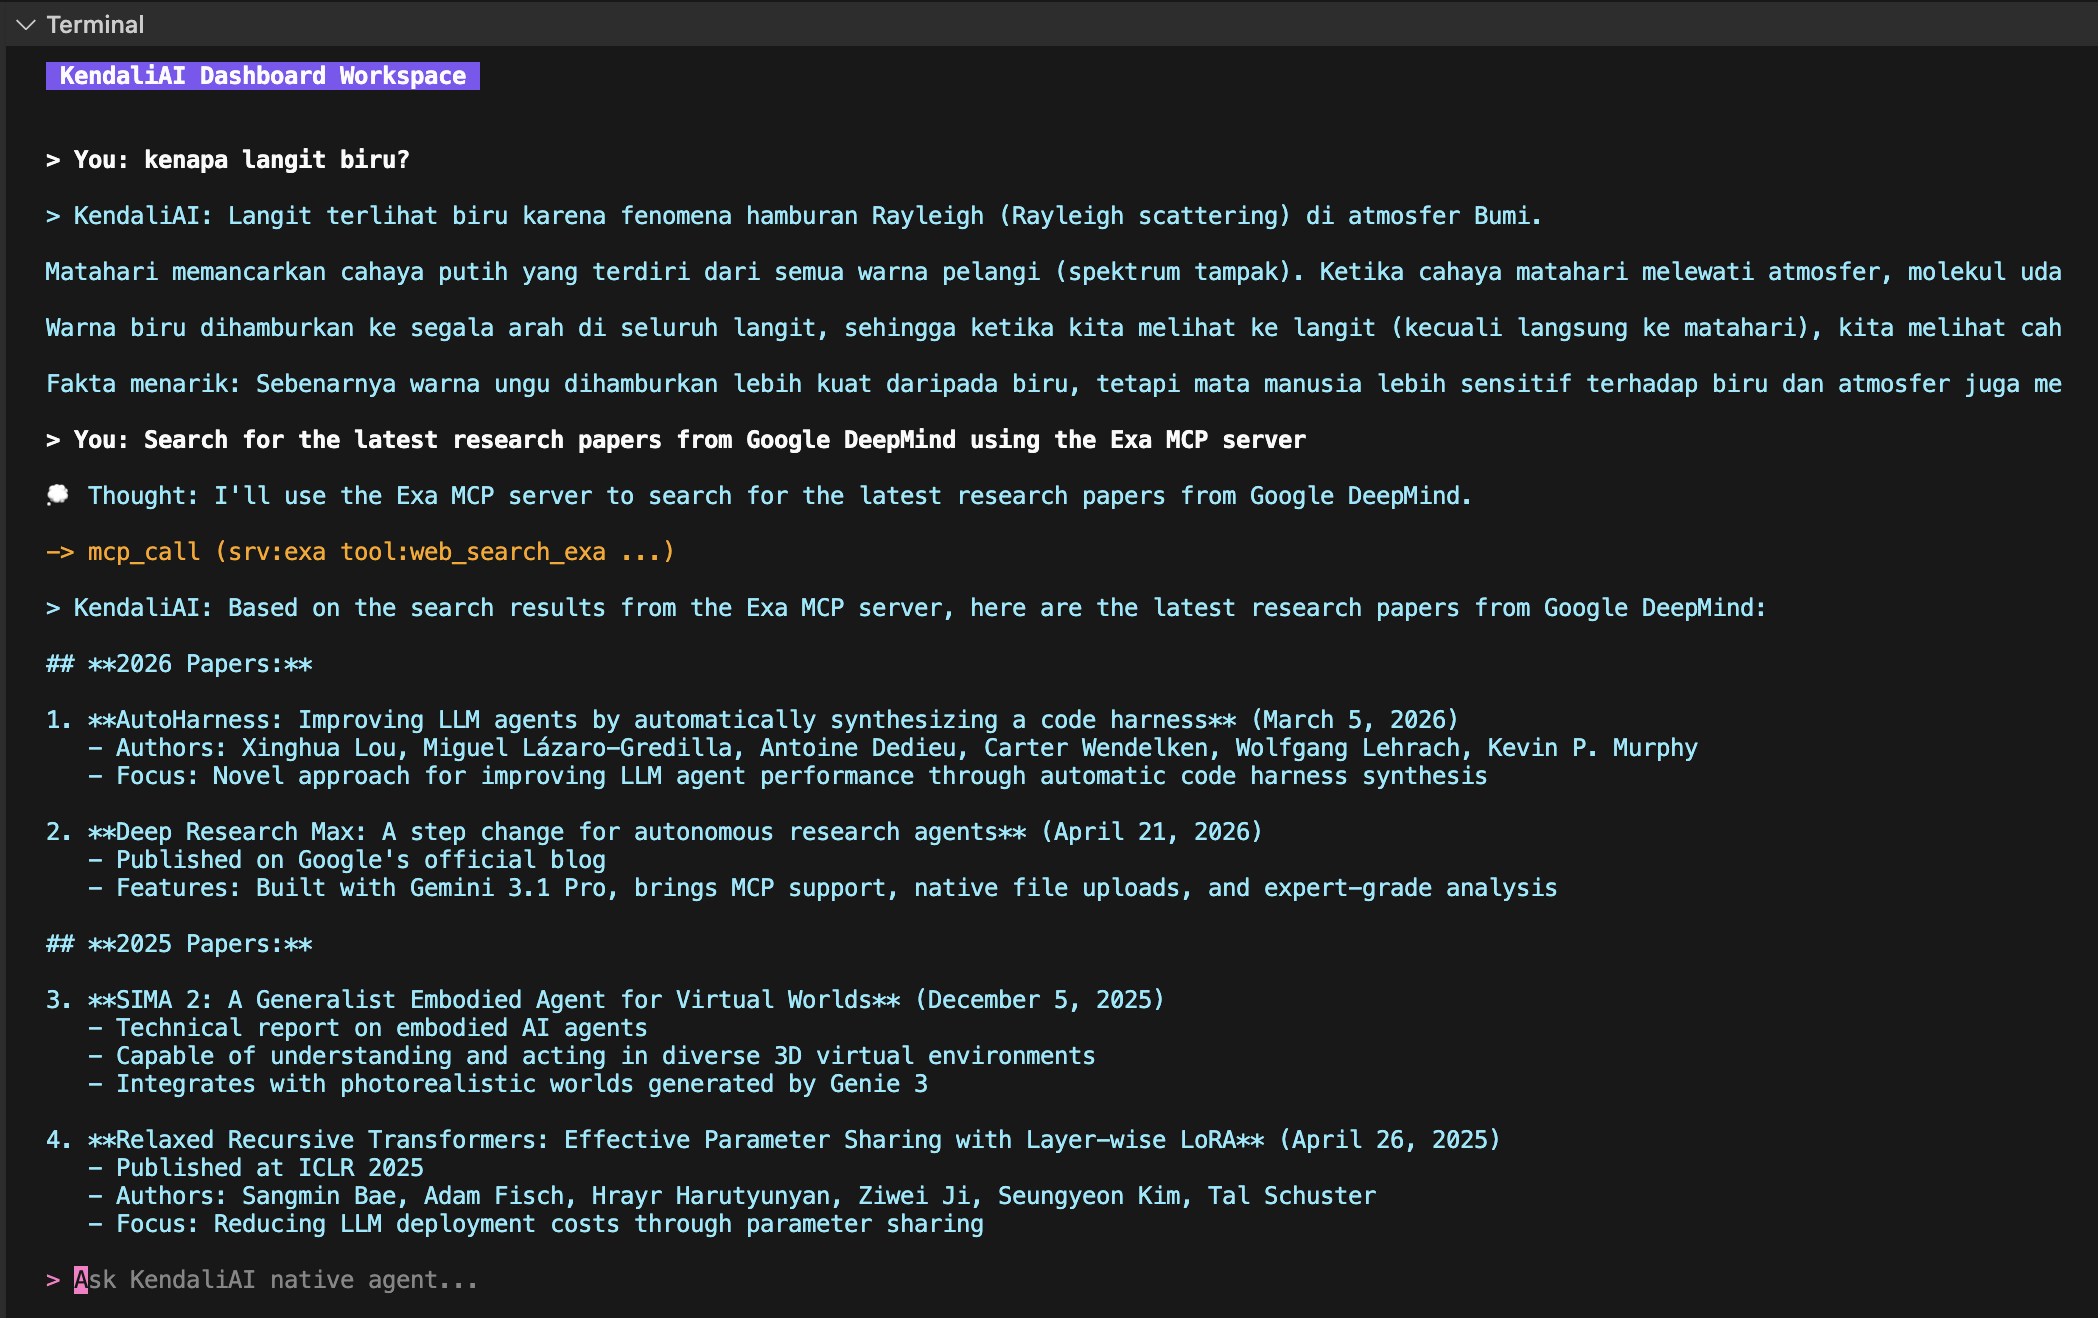
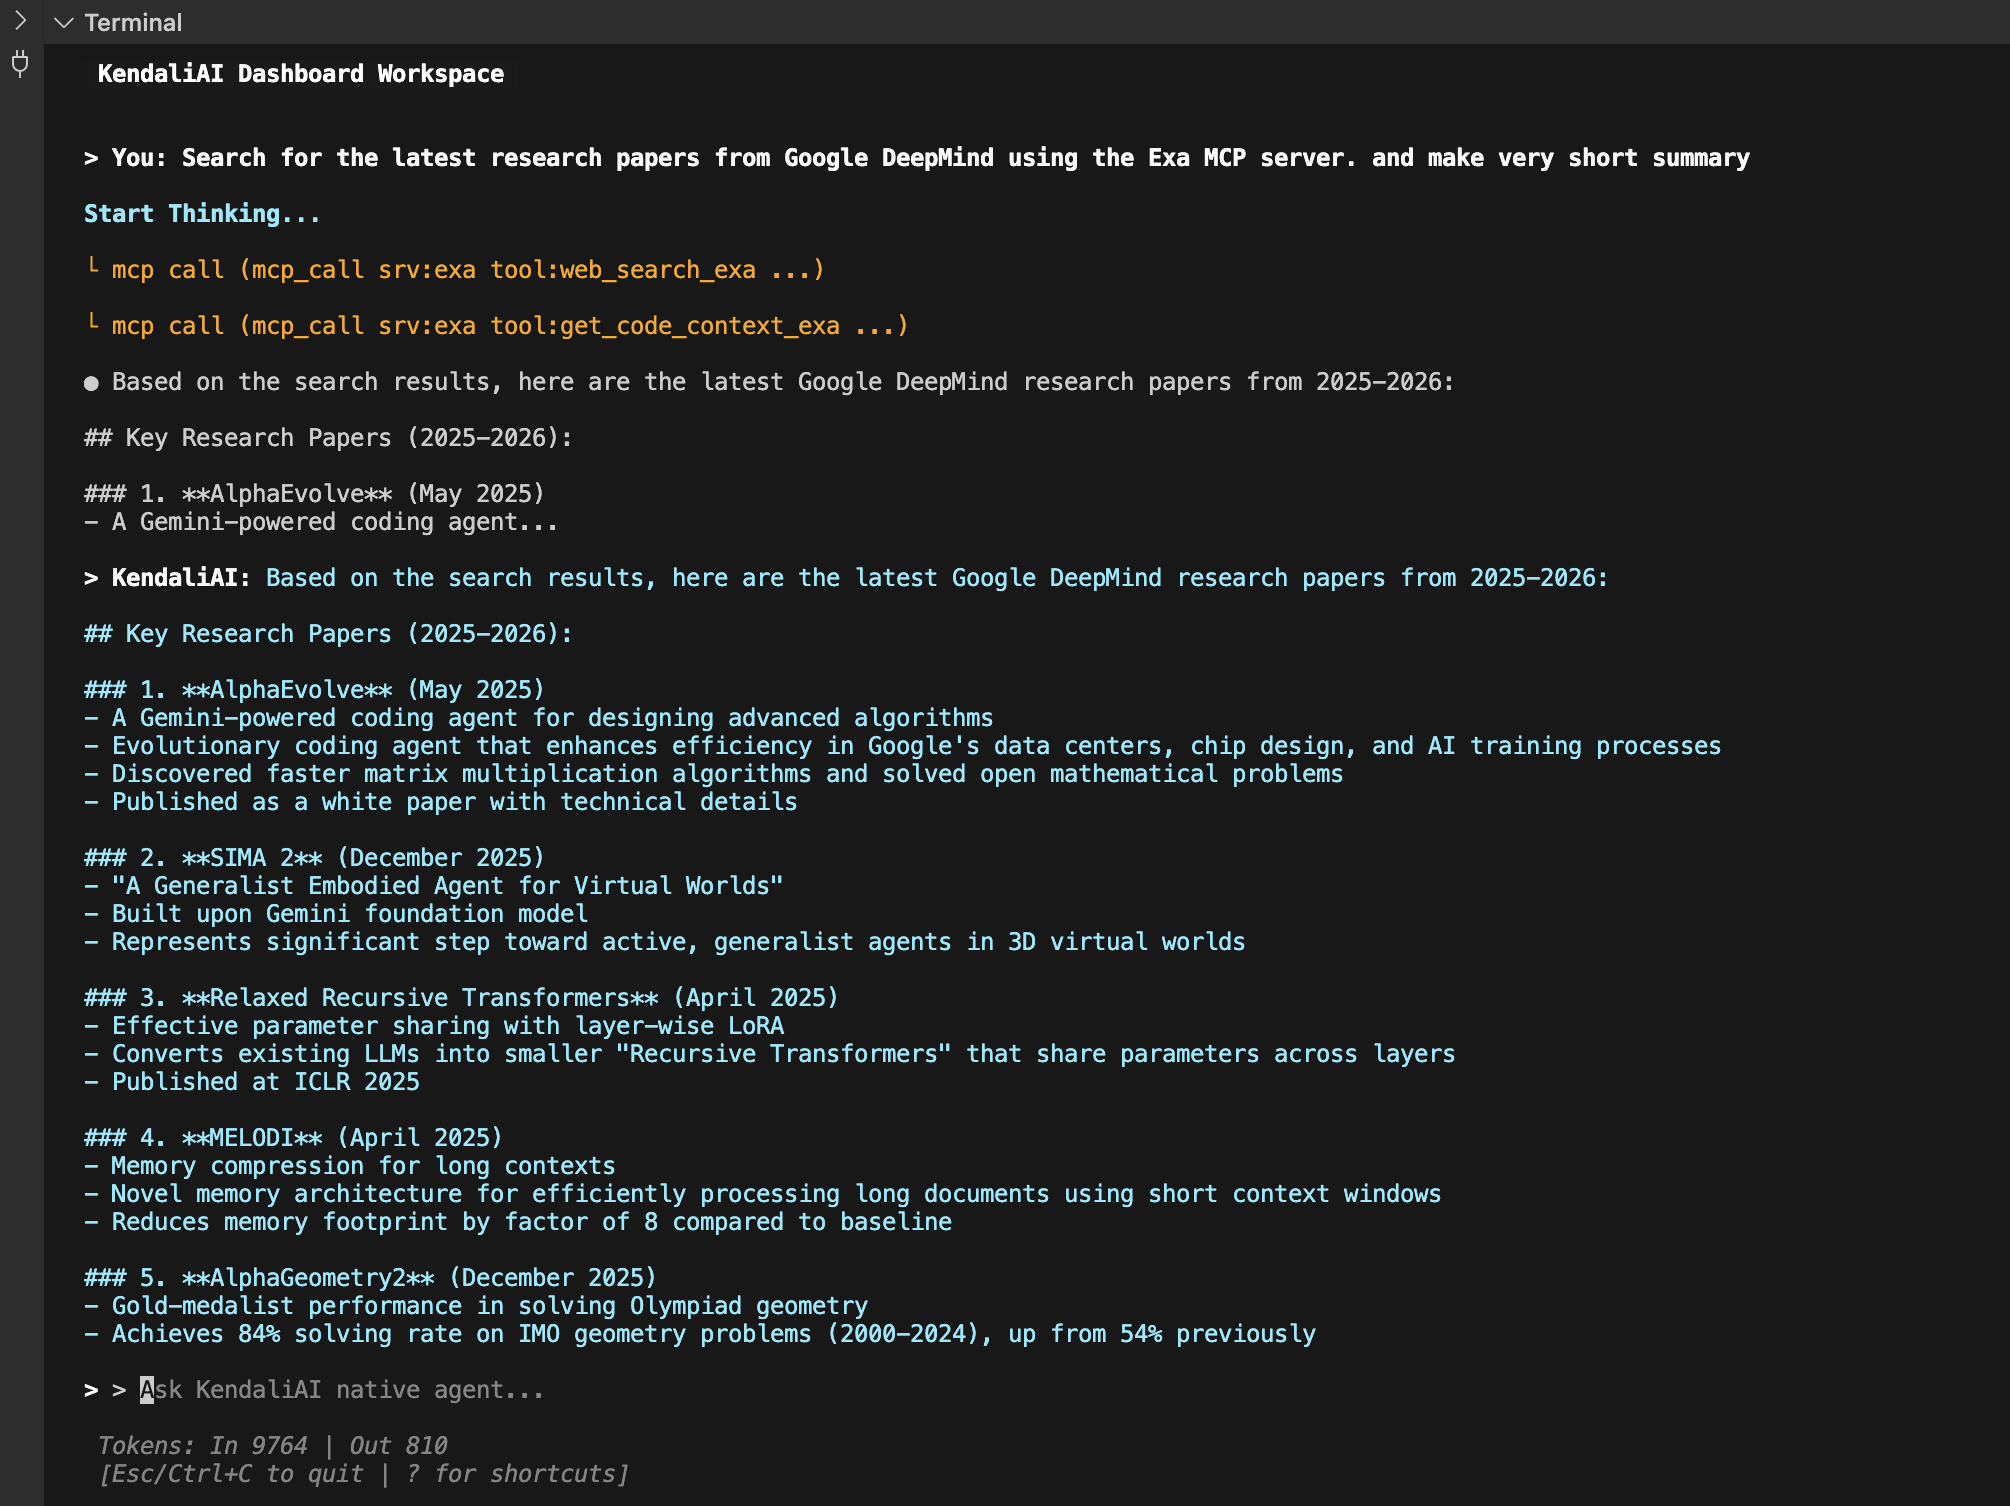
feat: implement token usage tracking and enhance TUI with processing status and dashboard styling

Changed region(s): [[0.0, 0.0, 0.9871, 0.9954]]

diff --git a/internal/tui/app.go b/internal/tui/app.go
@@ -17,22 +17,29 @@ import (
 )
 
 var (
-	titleStyle = lipgloss.NewStyle().Bold(true).Foreground(lipgloss.Color("#FAFAFA")).Background(lipgloss.Color("#7D56F4")).Padding(0, 1).MarginBottom(1)
-	inputStyle = lipgloss.NewStyle().Foreground(lipgloss.Color("#FF79C6"))
+	titleStyle = lipgloss.NewStyle().Bold(true).Foreground(lipgloss.Color("#FFFFFF")).Background(lipgloss.Color("#1A1A1A")).Padding(0, 1).MarginBottom(1)
+	inputStyle = lipgloss.NewStyle().Foreground(lipgloss.Color("#00FF00"))
 
-	userStyle  = lipgloss.NewStyle().Foreground(lipgloss.Color("#FAFAFA")).Bold(true) // White
-	toolStyle  = lipgloss.NewStyle().Foreground(lipgloss.Color("#FFA500"))             // Orange
-	agentStyle = lipgloss.NewStyle().Foreground(lipgloss.Color("#8BE9FD"))             // Cyan/Blue
-	errorStyle = lipgloss.NewStyle().Foreground(lipgloss.Color("#FF5555"))             // Red
+	userStyle       = lipgloss.NewStyle().Foreground(lipgloss.Color("#FAFAFA")).Bold(true)
+	thoughtStyle    = lipgloss.NewStyle().Foreground(lipgloss.Color("#CCCCCC"))
+	toolNameStyle   = lipgloss.NewStyle().Foreground(lipgloss.Color("#FFA500")).Bold(true)
+	toolDetailStyle = lipgloss.NewStyle().Foreground(lipgloss.Color("#FFA500"))
+	agentStyle      = lipgloss.NewStyle().Foreground(lipgloss.Color("#8BE9FD"))
+	errorStyle      = lipgloss.NewStyle().Foreground(lipgloss.Color("#FF5555"))
+	footerStyle     = lipgloss.NewStyle().Foreground(lipgloss.Color("#555555")).Italic(true)
+	processingStyle = lipgloss.NewStyle().Foreground(lipgloss.Color("#8BE9FD")).Bold(true)
 )
 
 type model struct {
-	db       *sql.DB
-	cfg      *config.Config
-	ti       textinput.Model
-	vp       viewport.Model
-	logs     []string
-	quitting bool
+	db           *sql.DB
+	cfg          *config.Config
+	ti           textinput.Model
+	vp           viewport.Model
+	logs         []string
+	quitting     bool
+	totalInput   int
+	totalOutput  int
+	isProcessing bool
 }
 
 func initialModel(db *sql.DB, cfg *config.Config) model {
@@ -62,6 +69,8 @@ type agentStepMsg string
 type responseMsg string
 type thoughtMsg string
 type errMsg error
+type statsMsg struct{ In, Out int }
+type progressMsg bool
 
 func runAgentTask(cmd string, p *tea.Program, m model) tea.Cmd {
 	return func() tea.Msg {
@@ -77,7 +86,21 @@ func runAgentTask(cmd string, p *tea.Program, m model) tea.Cmd {
 		loop := agent.NewCognitionLoop(pr, 25, m.cfg)
 		loop.OnTool = func(n string, args map[string]interface{}) {
 			if p != nil {
+				label := "Ran"
 				argStr := ""
+				
+				// Categorize tools based on the AntiGravity pattern
+				switch n {
+				case "list_files", "read_file", "search_files", "fetch_url":
+					label = "Explore"
+				case "apply_patch", "replace_range", "edit_file":
+					label = "Edited"
+				case "mcp_call":
+					label = "mcp call"
+				default:
+					label = "Ran"
+				}
+
 				if n == "list_files" {
 					argStr = fmt.Sprintf("%v", args["path"])
 				} else if n == "read_file" {
@@ -112,16 +135,16 @@ func runAgentTask(cmd string, p *tea.Program, m model) tea.Cmd {
 					
 					argStr = fmt.Sprintf("srv:%v tool:%v ...", srv, tool)
 				}
-				p.Send(agentStepMsg(fmt.Sprintf("%s (%s)", n, argStr)))
+				p.Send(agentStepMsg(fmt.Sprintf("%s (%s %s)", label, n, argStr)))
+			}
+		}
+		loop.OnStats = func(in, out int) {
+			if p != nil {
+				p.Send(statsMsg{In: in, Out: out})
 			}
 		}
 		loop.OnResponse = func(content string) {
 			if p != nil {
-				// Only show thoughts if there are tools to be executed
-				if !strings.Contains(content, "tool:") {
-					return
-				}
-
 				// Extract thoughts (text before any tool: calls)
 				thought := content
 				if idx := strings.Index(content, "tool:"); idx != -1 {
@@ -137,7 +160,9 @@ func runAgentTask(cmd string, p *tea.Program, m model) tea.Cmd {
 			}
 		}
 
+		p.Send(progressMsg(true))
 		res, err := loop.Run(context.Background(), cmd)
+		p.Send(progressMsg(false))
 		if err != nil {
 			return errMsg(err)
 		}
@@ -162,6 +187,7 @@ func (m model) Update(msg tea.Msg) (tea.Model, tea.Cmd) {
 			val := m.ti.Value()
 			if val == "" { return m, nil }
 			m.logs = append(m.logs, userStyle.Render(fmt.Sprintf("> You: %s", val)))
+			m.logs = append(m.logs, processingStyle.Render("Start Thinking..."))
 			m.ti.SetValue("")
 			
 			m.vp.SetContent(strings.Join(m.logs, "\n\n"))
@@ -170,9 +196,16 @@ func (m model) Update(msg tea.Msg) (tea.Model, tea.Cmd) {
 			return m, runAgentTask(val, globalProgram, m)
 		}
 	case thoughtMsg:
-		m.logs = append(m.logs, agentStyle.Render(fmt.Sprintf("💭 Thought: %s", string(msg))))
+		m.logs = append(m.logs, thoughtStyle.Render(fmt.Sprintf("● %s", string(msg))))
 		m.vp.SetContent(strings.Join(m.logs, "\n\n"))
 		m.vp.GotoBottom()
+		return m, nil
+	case statsMsg:
+		m.totalInput = msg.In
+		m.totalOutput = msg.Out
+		return m, nil
+	case progressMsg:
+		m.isProcessing = bool(msg)
 		return m, nil
 	case tea.WindowSizeMsg:
 		m.vp.Width = msg.Width
@@ -181,17 +214,17 @@ func (m model) Update(msg tea.Msg) (tea.Model, tea.Cmd) {
 		m.vp.GotoBottom()
 		return m, nil
 	case agentStepMsg:
-		m.logs = append(m.logs, toolStyle.Render(fmt.Sprintf("-> %s", string(msg))))
+		m.logs = append(m.logs, toolNameStyle.Render("└ ") + toolDetailStyle.Render(string(msg)))
 		m.vp.SetContent(strings.Join(m.logs, "\n\n"))
 		m.vp.GotoBottom()
 		return m, nil
 	case responseMsg:
-		m.logs = append(m.logs, agentStyle.Render(fmt.Sprintf("> KendaliAI: %s", string(msg))))
+		m.logs = append(m.logs, userStyle.Render("> KendaliAI: ") + agentStyle.Render(string(msg)))
 		m.vp.SetContent(strings.Join(m.logs, "\n\n"))
 		m.vp.GotoBottom()
 		return m, nil
 	case errMsg:
-		m.logs = append(m.logs, errorStyle.Render(fmt.Sprintf("> KendaliAI-Error: %v", msg)))
+		m.logs = append(m.logs, errorStyle.Render(fmt.Sprintf("❌ Error: %v", msg)))
 		m.vp.SetContent(strings.Join(m.logs, "\n\n"))
 		m.vp.GotoBottom()
 		return m, nil
@@ -207,19 +240,30 @@ func (m model) Update(msg tea.Msg) (tea.Model, tea.Cmd) {
 }
 
 func (m model) View() string {
-	if m.quitting { return "" }
-	var b strings.Builder
-	b.WriteString(titleStyle.Render("KendaliAI Dashboard Workspace"))
-	b.WriteString("\n\n")
+	if m.quitting {
+		return "Exiting KendaliAI..."
+	}
 
-	b.WriteString(m.vp.View())
+	processing := ""
+	if m.isProcessing {
+		processing = processingStyle.Render(" ⚡ Thinking...")
+	}
 
-	b.WriteString("\n\n" + inputStyle.Render(m.ti.View()) + "\n")
-	return b.String()
+	footer := footerStyle.Render(fmt.Sprintf(" Tokens: In %d | Out %d", m.totalInput, m.totalOutput))
+
+	return fmt.Sprintf(
+		"%s\n%s\n\n%s\n\n%s%s\n%s",
+		titleStyle.Render("KendaliAI Dashboard Workspace"),
+		m.vp.View(),
+		userStyle.Render("> ") + m.ti.View(),
+		processing,
+		footer,
+		footerStyle.Render(" [Esc/Ctrl+C to quit | ? for shortcuts]"),
+	)
 }
 
 func StartDynamicTUI(db *sql.DB, cfg *config.Config) error {
-	p := tea.NewProgram(initialModel(db, cfg), tea.WithAltScreen(), tea.WithMouseCellMotion())
+	p := tea.NewProgram(initialModel(db, cfg), tea.WithAltScreen())
 	globalProgram = p
 	if _, err := p.Run(); err != nil {
 		return err

diff --git a/internal/agent/cognition.go b/internal/agent/cognition.go
@@ -21,7 +21,9 @@ type Message struct {
 }
 
 type Response struct {
-	Content string `json:"content"`
+	Content      string `json:"content"`
+	InputTokens  int    `json:"input_tokens"`
+	OutputTokens int    `json:"output_tokens"`
 }
 
 type CognitionLoop struct {
@@ -30,6 +32,7 @@ type CognitionLoop struct {
 	Config     *config.Config
 	OnTool     func(toolName string, args map[string]interface{})
 	OnResponse func(content string)
+	OnStats    func(totalInput, totalOutput int)
 }
 
 func NewCognitionLoop(p Provider, maxSteps int, cfg *config.Config) *CognitionLoop {
@@ -235,6 +238,9 @@ func (c *CognitionLoop) Run(ctx context.Context, initialQuery string) (string, e
 	// Spin up a 5-thread worker pool natively executing sandboxed ops
 	engine := NewExecutionEngine(5, reg)
 
+	totalInput := 0
+	totalOutput := 0
+
 	for i := 0; i < c.MaxSteps; i++ {
 		// Optimize limits before inference (Sliding window / Chunking enforcement)
 		messages = OptimizeContext(messages, 20000)
@@ -242,6 +248,12 @@ func (c *CognitionLoop) Run(ctx context.Context, initialQuery string) (string, e
 		response, err := c.Provider.ChatCompletion(ctx, messages)
 		if err != nil {
 			return "", fmt.Errorf("provider err: %v", err)
+		}
+
+		totalInput += response.InputTokens
+		totalOutput += response.OutputTokens
+		if c.OnStats != nil {
+			c.OnStats(totalInput, totalOutput)
 		}
 
 		truncated := response.Content

diff --git a/internal/providers/deepseek.go b/internal/providers/deepseek.go
@@ -53,6 +53,8 @@ func (p *DeepSeekProvider) ChatCompletion(ctx context.Context, msgs []agent.Mess
 	}
 
 	return &agent.Response{
-		Content: resp.Choices[0].Message.Content,
+		Content:      resp.Choices[0].Message.Content,
+		InputTokens:  resp.Usage.PromptTokens,
+		OutputTokens: resp.Usage.CompletionTokens,
 	}, nil
 }

diff --git a/internal/providers/zai.go b/internal/providers/zai.go
@@ -52,6 +52,8 @@ func (p *ZAIProvider) ChatCompletion(ctx context.Context, msgs []agent.Message) 
 	}
 
 	return &agent.Response{
-		Content: resp.Choices[0].Message.Content,
+		Content:      resp.Choices[0].Message.Content,
+		InputTokens:  resp.Usage.PromptTokens,
+		OutputTokens: resp.Usage.CompletionTokens,
 	}, nil
 }
